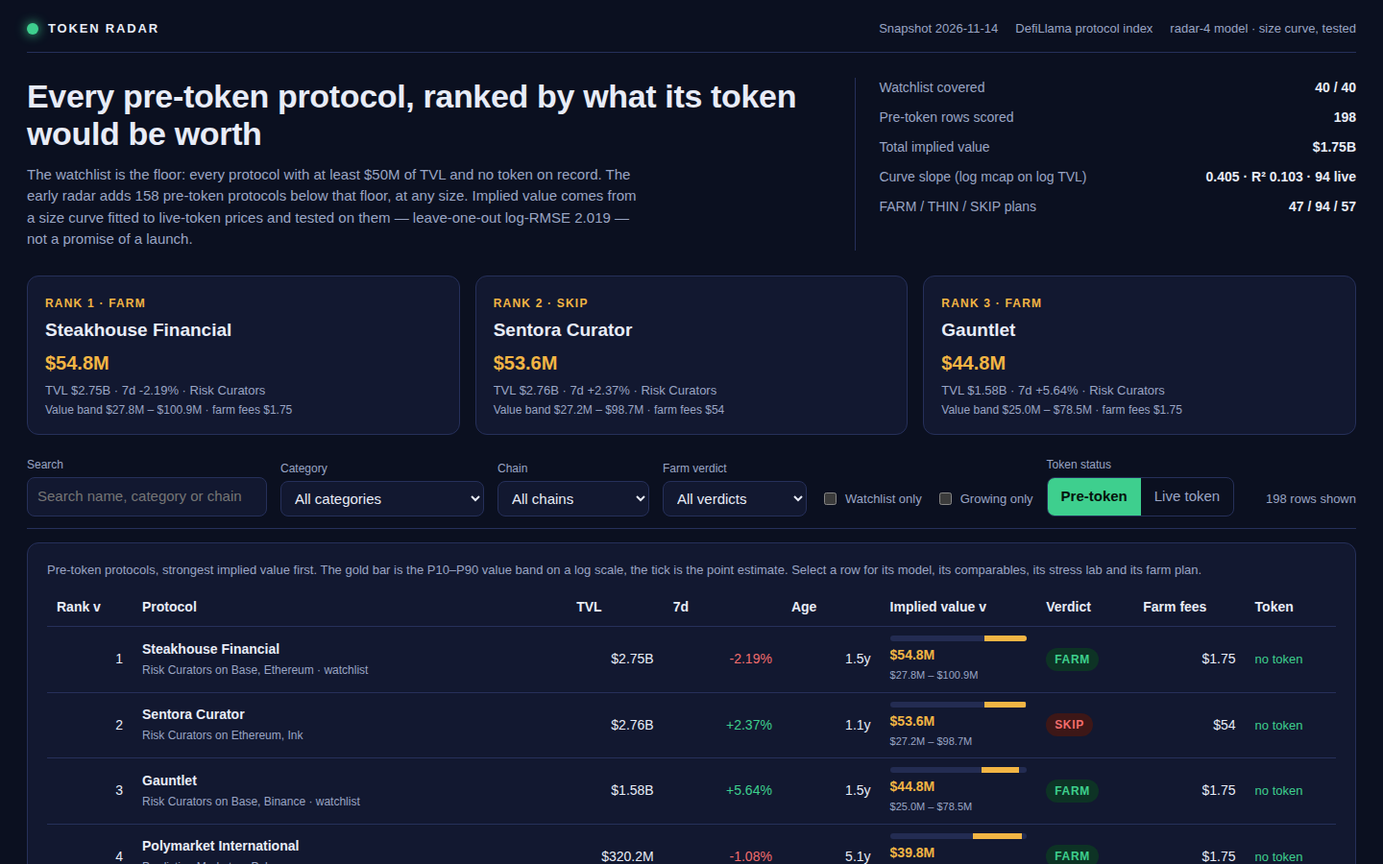
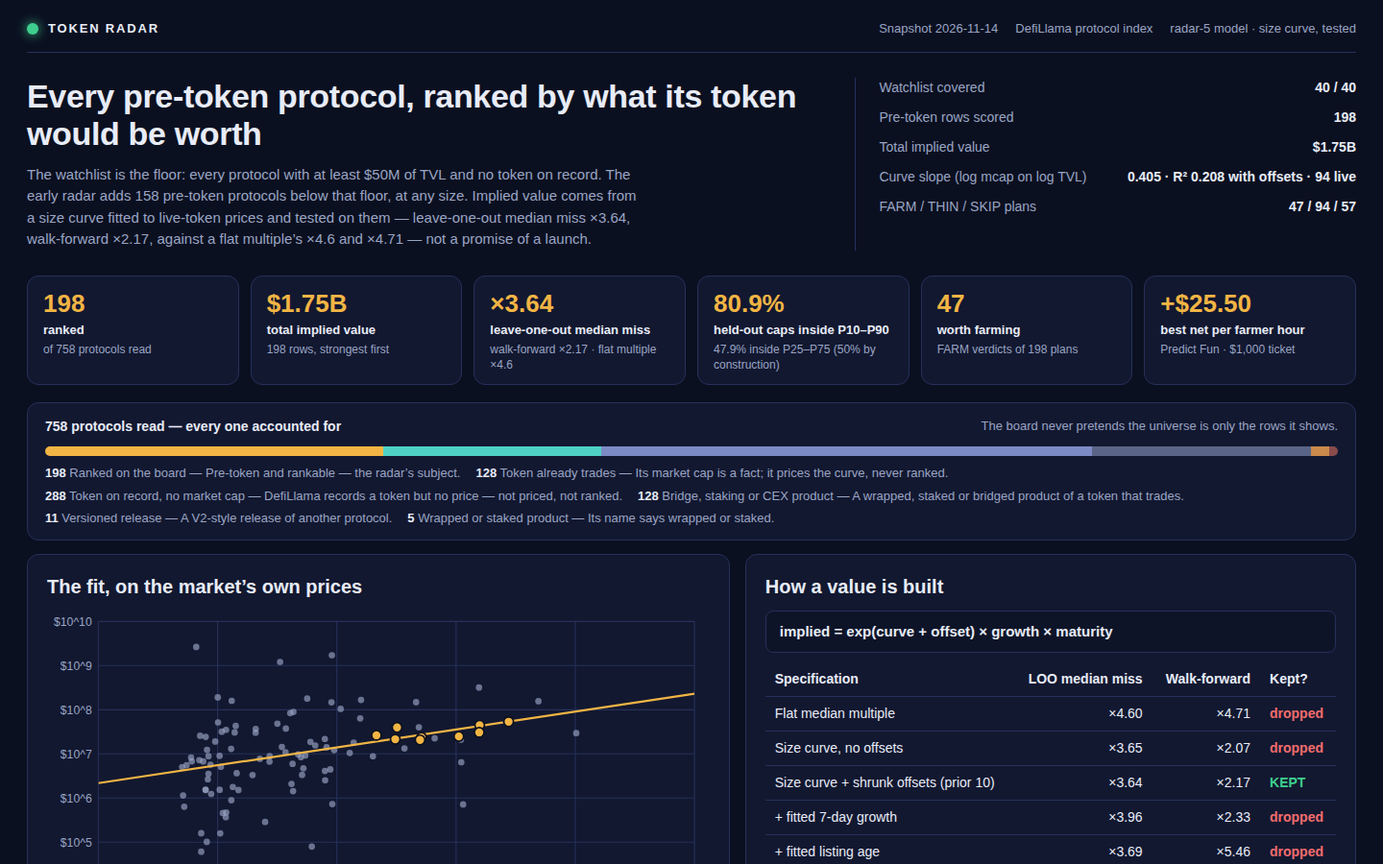
radar-5 dashboard: KPI strip, coverage ledger, scatter + ablation, farm economics
- Board view now opens with the proof, not the top-3 cards: a 6-tile
  KPI strip (198 ranked, $1.75B implied, LOO x3.64, 80.9% in P10-P90,
  47 FARM, best +$25.50/h), a coverage ledger for all 758 protocols
  with a stacked bar, and a proof grid — a log-log scatter of the 94
  live protocols, the fitted curve and the board top 10, beside the
  formula and the 5-row ablation table (age refused: WF x5.46).
- Table gains Slice / Net / Net-per-hour columns at a $1,000 ticket
  (toggle $1,000/$10,000), sortable; detail view gains a farm
  economics section. At the $1,000 ticket the page shows the stored
  values, so it agrees with board.json to the cent.
- Deep links: #sort=<key> and #scroll=table (filtered view link).
- Screenshots retaken at 1440x900 from the final build: board, detail
  (Steakhouse Financial), FARM-only sorted by net/hour.
- Board values unchanged vs radar-4: 198 rows, 0 diffs.

diff --git a/dashboard/app.js b/dashboard/app.js
@@ -1,4 +1,4 @@
-// Token Radar's night dashboard, radar-4. It reads window.RADAR (written beside dashboard/ by
+// Token Radar's night dashboard, radar-5. It reads window.RADAR (written beside dashboard/ by
 // main.ts) and renders the ranked board, a filterable table, a per-protocol detail drawer with the
 // curve's own inputs, the live comparables behind its value, the value band, the stress lab and
 // the protocol's costed farm plan. No network: every byte it shows is in data.js. The page
@@ -10,7 +10,7 @@
   var DATA = window.RADAR;
   if (!DATA) return;
   var app = document.getElementById('board');
-  var state = { q: '', category: 'all', chain: 'all', verdict: 'all', watch: false, growing: false, tab: 'pre-token', sort: 'implied', dir: -1, selected: null };
+  var state = { q: '', category: 'all', chain: 'all', verdict: 'all', watch: false, growing: false, tab: 'pre-token', sort: 'implied', dir: -1, selected: null, ticket: 1000, scroll: '' };
   var WATCH = {};
   (DATA.watchlist || []).forEach(function (s) { WATCH[s] = true; });
 
@@ -25,6 +25,25 @@
   function fmtPct(n) {
     if (n === null || n === undefined || !isFinite(n)) return 'n/a';
     return (n > 0 ? '+' : '') + n.toFixed(2) + '%';
+  }
+  /** Dollars with cents, for the farm economics where a slice can be $0.36. */
+  function fmtUsd2(n) {
+    if (n === null || n === undefined || !isFinite(n)) return 'n/a';
+    var sign = n < 0 ? '-' : '';
+    var a = Math.abs(n);
+    if (a >= 1e6) return sign + fmtUsd(a);
+    if (a >= 1e3) return sign + '$' + Math.round(a).toLocaleString('en-US');
+    return sign + '$' + a.toFixed(2);
+  }
+  /** One row's farm economics at the chosen ticket: the slice scales with the ticket, the fees do not.
+   *  At the $1,000 ticket the stored values are shown as computed, so the page and board.json agree
+   *  to the cent; at $10,000 the slice is rescaled and the net, break-even and net/hour follow. */
+  function econ(r) {
+    if (state.ticket === 1000) return { slice: r.slice_usd, net: r.net_usd, breakeven: r.breakeven_pct, netPerHour: r.net_per_hour_usd };
+    var slice = r.slice_usd * 10;
+    var net = slice - r.total_fees_usd;
+    var breakeven = slice > 0 ? (r.total_fees_usd / slice) * 100 : 0;
+    return { slice: slice, net: net, breakeven: breakeven, netPerHour: net / r.farmer_hours };
   }
   function fmtAge(days) {
     if (days === null || days === undefined) return 'unknown';
@@ -83,6 +102,8 @@
     if (params.get('watch') === '1') state.watch = true;
     if (params.get('growing') === '1') state.growing = true;
     if (params.get('tab')) state.tab = params.get('tab');
+    if (params.get('sort') && ['implied', 'name', 'tvl', 'growth', 'age', 'verdict', 'fees', 'slice', 'net', 'netperhour'].indexOf(params.get('sort')) >= 0) state.sort = params.get('sort');
+    if (params.get('scroll') === 'table') state.scroll = 'table';
   }
   function writeHash() {
     var params = new URLSearchParams();
@@ -123,6 +144,9 @@
       else if (key === 'age') { av = a.age_days === null ? Infinity : a.age_days; bv = b.age_days === null ? Infinity : b.age_days; }
       else if (key === 'verdict') { av = order[a.verdict]; bv = order[b.verdict]; }
       else if (key === 'fees') { av = a.total_fees_usd; bv = b.total_fees_usd; }
+      else if (key === 'slice') { av = econ(a).slice; bv = econ(b).slice; }
+      else if (key === 'net') { av = econ(a).net; bv = econ(b).net; }
+      else if (key === 'netperhour') { av = econ(a).netPerHour; bv = econ(b).netPerHour; }
       else { av = a.implied_value_usd; bv = b.implied_value_usd; }
       if (av < bv) return -state.dir;
       if (av > bv) return state.dir;
@@ -146,31 +170,118 @@
     return el('section', { class: 'lede' },
       el('div', null,
         el('h1', { text: 'Every pre-token protocol, ranked by what its token would be worth' }),
-        el('p', { text: 'The watchlist is the floor: every protocol with at least $' + Math.round(DATA.floor_usd / 1e6) + 'M of TVL and no token on record. The early radar adds ' + DATA.early_size + ' pre-token protocols below that floor, at any size. Implied value comes from a size curve fitted to live-token prices and tested on them — leave-one-out log-RMSE ' + v.leave_one_out.log_rmse + ' — not a promise of a launch.' })
+        el('p', { text: 'The watchlist is the floor: every protocol with at least $' + Math.round(DATA.floor_usd / 1e6) + 'M of TVL and no token on record. The early radar adds ' + DATA.early_size + ' pre-token protocols below that floor, at any size. Implied value comes from a size curve fitted to live-token prices and tested on them — leave-one-out median miss ×' + v.leave_one_out.med_mult + ', walk-forward ×' + v.walk_forward.med_mult + ', against a flat multiple’s ×' + v.baselines.flat_med_mult_loo + ' and ×' + v.baselines.flat_med_mult_wf + ' — not a promise of a launch.' })
       ),
       el('div', { class: 'facts' },
         el('div', { class: 'fact' }, el('span', { text: 'Watchlist covered' }), el('b', { text: DATA.watchlist_size + ' / ' + DATA.watchlist_size })),
         el('div', { class: 'fact' }, el('span', { text: 'Pre-token rows scored' }), el('b', { text: String(DATA.board_size) })),
         el('div', { class: 'fact' }, el('span', { text: 'Total implied value' }), el('b', { text: fmtUsd(DATA.total_implied_usd) })),
-        el('div', { class: 'fact' }, el('span', { text: 'Curve slope (log mcap on log TVL)' }), el('b', { text: DATA.curve.slope.toFixed(3) + ' · R² ' + DATA.curve.r_squared + ' · ' + DATA.curve.live_count + ' live' })),
+        el('div', { class: 'fact' }, el('span', { text: 'Curve slope (log mcap on log TVL)' }), el('b', { text: DATA.curve.slope.toFixed(3) + ' · R² ' + DATA.curve.r_squared_full + ' with offsets · ' + DATA.curve.live_count + ' live' })),
         el('div', { class: 'fact' }, el('span', { text: 'FARM / THIN / SKIP plans' }), el('b', { text: DATA.rows.filter(function (r) { return r.verdict === 'FARM'; }).length + ' / ' + DATA.rows.filter(function (r) { return r.verdict === 'THIN'; }).length + ' / ' + DATA.rows.filter(function (r) { return r.verdict === 'SKIP'; }).length }))
       )
     );
   }
 
-  function top3() {
-    var list = rows().slice(0, 3);
-    if (list.length === 0) return null;
-    var cards = list.map(function (r) {
-      return el('button', { class: 'top3-card', type: 'button', onclick: function () { openDetail(r.slug); } },
-        el('span', { class: 'rank', text: 'RANK ' + r.rank + ' · ' + r.verdict }),
-        el('h3', { text: r.name }),
-        el('span', { class: 'implied', text: fmtUsd(r.implied_value_usd) }),
-        el('span', { class: 'sub', text: 'TVL ' + fmtUsd(r.tvl_usd) + ' · 7d ' + fmtPct(r.change_7d) + ' · ' + (r.category || 'Other') }),
-        el('span', { class: 'band', text: 'Value band ' + fmtUsd(r.p10_usd) + ' – ' + fmtUsd(r.p90_usd) + ' · farm fees ' + fmtFee(r.total_fees_usd) })
+  function kpiStrip() {
+    var v = DATA.validation;
+    var tiles = [
+      { big: String(DATA.board_size), lbl: 'ranked', sub: 'of ' + DATA.ledger.total + ' protocols read' },
+      { big: fmtUsd(DATA.total_implied_usd), lbl: 'total implied value', sub: DATA.board_size + ' rows, strongest first' },
+      { big: '×' + v.leave_one_out.med_mult, lbl: 'leave-one-out median miss', sub: 'walk-forward ×' + v.walk_forward.med_mult + ' · flat multiple ×' + v.baselines.flat_med_mult_loo },
+      { big: v.range_hold_p90_pct + '%', lbl: 'held-out caps inside P10–P90', sub: v.range_hold_p50_pct + '% inside P25–P75 (50% by construction)' },
+      { big: String(DATA.farm_count), lbl: 'worth farming', sub: 'FARM verdicts of ' + DATA.board_size + ' plans' },
+      { big: '+$' + DATA.best_net_per_hour_usd.toFixed(2), lbl: 'best net per farmer hour', sub: DATA.best_net_per_hour_name + ' · $1,000 ticket' },
+    ];
+    return el('section', { class: 'kpi' }, tiles.map(function (t) {
+      return el('div', { class: 'kpi-tile' },
+        el('div', { class: 'big', text: t.big }),
+        el('div', { class: 'lbl', text: t.lbl }),
+        el('div', { class: 'sub', text: t.sub }));
+    }));
+  }
+
+  function ledgerStrip() {
+    var colors = { ranked: '#f2b544', trades: '#4fd1c5', record: '#7c8bc4', excluded: '#5a6486', versioned: '#c98a4b', wrapped: '#8a4b4b' };
+    var total = DATA.ledger.total;
+    var bar = el('div', { class: 'ledger-bar', 'aria-hidden': 'true' },
+      DATA.ledger.groups.map(function (g) {
+        return el('i', { style: 'width:' + (g.count / total * 100).toFixed(2) + '%;background:' + (colors[g.key] || '#5a6486'), title: g.label + ': ' + g.count });
+      }));
+    var groups = el('div', { class: 'ledger-groups' },
+      DATA.ledger.groups.map(function (g) {
+        return el('span', null, el('b', { text: String(g.count) }), ' ' + g.label + ' — ' + g.reason);
+      }));
+    return el('section', { class: 'ledger' },
+      el('div', { class: 'ledger-head' },
+        el('b', { text: total + ' protocols read — every one accounted for' }),
+        el('span', { text: 'The board never pretends the universe is only the rows it shows.' })),
+      bar, groups);
+  }
+
+  /** The fit as a picture: live-token market cap against TVL on log scales, the fitted curve, and the board's top 10 implied values. */
+  function scatterSvg() {
+    var W = 620, H = 290, padL = 48, padR = 14, padT = 12, padB = 30;
+    var live = DATA.live.filter(function (r) { return r.tvl_usd > 0 && r.mcap_usd > 0; });
+    var top = DATA.rows.slice(0, 10);
+    var xs = live.map(function (r) { return Math.log10(r.tvl_usd); }).concat(top.map(function (r) { return Math.log10(r.tvl_usd); }));
+    var ys = live.map(function (r) { return Math.log10(r.mcap_usd); }).concat(top.map(function (r) { return Math.log10(r.implied_value_usd); }));
+    var x0 = Math.floor(Math.min.apply(null, xs)), x1 = Math.ceil(Math.max.apply(null, xs));
+    var y0 = Math.floor(Math.min.apply(null, ys)), y1 = Math.ceil(Math.max.apply(null, ys));
+    function X(v) { return padL + ((v - x0) / (x1 - x0)) * (W - padL - padR); }
+    function Y(v) { return padT + (1 - (v - y0) / (y1 - y0)) * (H - padT - padB); }
+    var c0 = DATA.curve.intercept / Math.LN10, s = DATA.curve.slope;
+    var parts = [];
+    parts.push('<svg class="scatter" viewBox="0 0 ' + W + ' ' + H + '" role="img" aria-label="Scatter plot of live-token market cap against TVL on log scales, with the fitted curve and the board top 10">');
+    parts.push('<defs><clipPath id="plot"><rect x="' + padL + '" y="' + padT + '" width="' + (W - padL - padR) + '" height="' + (H - padT - padB) + '"/></clipPath></defs>');
+    for (var gx = x0; gx <= x1; gx++) {
+      parts.push('<line x1="' + X(gx).toFixed(1) + '" y1="' + padT + '" x2="' + X(gx).toFixed(1) + '" y2="' + (H - padB) + '" stroke="#26305a" stroke-width="1"/>');
+      parts.push('<text x="' + X(gx).toFixed(1) + '" y="' + (H - padB + 16) + '" fill="#9aa5c4" font-size="11" text-anchor="middle">$10^' + gx + '</text>');
+    }
+    for (var gy = y0; gy <= y1; gy++) {
+      parts.push('<line x1="' + padL + '" y1="' + Y(gy).toFixed(1) + '" x2="' + (W - padR) + '" y2="' + Y(gy).toFixed(1) + '" stroke="#26305a" stroke-width="1"/>');
+      parts.push('<text x="' + (padL - 6) + '" y="' + (Y(gy) + 4).toFixed(1) + '" fill="#9aa5c4" font-size="11" text-anchor="end">$10^' + gy + '</text>');
+    }
+    parts.push('<g clip-path="url(#plot)">');
+    live.forEach(function (r) {
+      parts.push('<circle cx="' + X(Math.log10(r.tvl_usd)).toFixed(1) + '" cy="' + Y(Math.log10(r.mcap_usd)).toFixed(1) + '" r="3" fill="#9aa5c4" opacity="0.65"/>');
+    });
+    parts.push('<line x1="' + X(x0).toFixed(1) + '" y1="' + Y(c0 + s * x0).toFixed(1) + '" x2="' + X(x1).toFixed(1) + '" y2="' + Y(c0 + s * x1).toFixed(1) + '" stroke="#f2b544" stroke-width="2"/>');
+    top.forEach(function (r) {
+      parts.push('<circle cx="' + X(Math.log10(r.tvl_usd)).toFixed(1) + '" cy="' + Y(Math.log10(r.implied_value_usd)).toFixed(1) + '" r="4.5" fill="#f2b544" stroke="#0b1020" stroke-width="1.5"/>');
+    });
+    parts.push('</g>');
+    parts.push('<text x="' + padL + '" y="' + (H - 8) + '" fill="#9aa5c4" font-size="11">TVL (log scale) →</text>');
+    parts.push('</svg>');
+    return parts.join('');
+  }
+
+  function proofGrid() {
+    var v = DATA.validation;
+    var ageRow = DATA.ablation.filter(function (a) { return a.name.indexOf('age') >= 0; })[0];
+    var ablRows = DATA.ablation.map(function (a) {
+      return el('tr', null,
+        el('td', { text: a.name }),
+        el('td', { class: 'num', text: '×' + a.loo_med.toFixed(2) }),
+        el('td', { class: 'num', text: '×' + a.wf_med.toFixed(2) }),
+        el('td', { class: a.kept ? 'kept' : 'dropped', text: a.kept ? 'KEPT' : 'dropped' })
       );
     });
-    return el('section', { class: 'top3' }, cards);
+    return el('section', { class: 'proof' },
+      el('div', { class: 'panel' },
+        el('h2', { text: 'The fit, on the market’s own prices' }),
+        el('div', { html: scatterSvg() }),
+        el('p', { class: 'scatter-note', text: DATA.curve.live_count + ' live-token protocols (grey), the fitted curve log(mcap) = ' + DATA.curve.intercept.toFixed(3) + ' + ' + DATA.curve.slope.toFixed(3) + ' × log(TVL) (gold), the board’s top 10 implied values (gold dots). R² ' + DATA.curve.r_squared_full + ' with the shrunk category offsets, ' + DATA.curve.r_squared + ' for the curve alone.' })
+      ),
+      el('div', { class: 'panel' },
+        el('h2', { text: 'How a value is built' }),
+        el('div', { class: 'formula' }, el('b', { text: 'implied = exp(curve + offset) × growth × maturity' })),
+        el('table', { class: 'calib ablation' },
+          el('thead', null, el('tr', null, el('th', { text: 'Specification' }), el('th', { class: 'num', text: 'LOO median miss' }), el('th', { class: 'num', text: 'Walk-forward' }), el('th', { text: 'Kept?' }))),
+          el('tbody', null, ablRows)
+        ),
+        el('p', { class: 'sub', text: 'Each row was scored blind on the same ' + v.leave_one_out.n + ' live protocols. The curve beats the flat multiple on both tests. A fitted age term wins in-sample and collapses on listings the model never saw (×' + (ageRow ? ageRow.wf_med.toFixed(2) : '5.46') + '), so the model refuses it; growth stays a small stated prior, not a fitted term. Offsets move the blind scores by less than the noise and are kept for the category story, not for a win they do not earn.' })
+      )
+    );
   }
 
   function controls() {
@@ -190,6 +301,8 @@
     growBox.addEventListener('change', function () { state.growing = growBox.checked; writeHash(); render(); });
     var pre = el('button', { type: 'button', 'aria-pressed': state.tab === 'pre-token' ? 'true' : 'false', text: 'Pre-token', onclick: function () { state.tab = 'pre-token'; writeHash(); render(); } });
     var live = el('button', { type: 'button', 'aria-pressed': state.tab === 'live' ? 'true' : 'false', text: 'Live token', onclick: function () { state.tab = 'live'; writeHash(); render(); } });
+    var t1000 = el('button', { type: 'button', 'aria-pressed': state.ticket === 1000 ? 'true' : 'false', text: '$1,000', onclick: function () { state.ticket = 1000; render(); } });
+    var t10000 = el('button', { type: 'button', 'aria-pressed': state.ticket === 10000 ? 'true' : 'false', text: '$10,000', onclick: function () { state.ticket = 10000; render(); } });
     return el('div', { class: 'controls' },
       el('div', { class: 'field' }, el('label', { for: 'q', text: 'Search' }), search),
       select('category', 'Category', categories, state.category, 'All categories'),
@@ -198,6 +311,7 @@
       el('label', { class: 'check', for: 'watch' }, watchBox, 'Watchlist only'),
       el('label', { class: 'check', for: 'growing' }, growBox, 'Growing only'),
       el('div', { class: 'field' }, el('span', { class: 'sub', text: 'Token status' }), el('div', { class: 'tabs' }, pre, live)),
+      el('div', { class: 'field' }, el('span', { class: 'sub', text: 'Deposit ticket' }), el('div', { class: 'ticket' }, t1000, t10000)),
       el('span', { class: 'count', text: state.tab === 'pre-token' ? rows().length + ' rows shown' : DATA.live.length + ' live-token protocols in the fit' })
     );
   }
@@ -224,6 +338,7 @@
     list.forEach(function (r) {
       var growth = r.change_7d === null ? 'n/a' : fmtPct(r.change_7d);
       var growthClass = r.change_7d === null ? '' : r.change_7d >= 0 ? 'pos' : 'neg';
+      var e = econ(r);
       var tr = el('tr', {
         'data-selected': state.selected === r.slug ? 'true' : 'false',
         tabindex: '0',
@@ -237,14 +352,15 @@
         )),
         el('td', { class: 'num', text: fmtUsd(r.tvl_usd) }),
         el('td', { class: 'num ' + growthClass, text: growth }),
-        el('td', { class: 'num', text: fmtAge(r.age_days) }),
         el('td', null, el('div', { class: 'implied' },
           bandBar(r),
           el('span', { class: 'num', text: fmtUsd(r.implied_value_usd) }),
           el('span', { class: 'range', text: fmtUsd(r.p10_usd) + ' – ' + fmtUsd(r.p90_usd) })
         )),
+        el('td', { class: 'num fees', text: fmtUsd2(e.slice) }),
+        el('td', { class: 'num fees ' + (e.net >= 0 ? 'econ-pos' : 'econ-neg'), text: fmtUsd2(e.net) }),
+        el('td', { class: 'num fees ' + (e.netPerHour >= 0 ? 'econ-pos' : 'econ-neg'), text: fmtUsd2(e.netPerHour) + '/h' }),
         el('td', null, el('span', { class: 'verdict ' + r.verdict, text: r.verdict })),
-        el('td', { class: 'num fees', text: fmtFee(r.total_fees_usd) }),
         el('td', null, el('span', { class: 'status', text: 'no token' }))
       );
       tbody.appendChild(tr);
@@ -252,16 +368,17 @@
     return el('div', { class: 'panel' },
       el('div', { class: 'table-wrap' },
         el('table', null,
-          el('caption', { class: 'sub', text: 'Pre-token protocols, strongest implied value first. The gold bar is the P10–P90 value band on a log scale, the tick is the point estimate. Select a row for its model, its comparables, its stress lab and its farm plan.' }),
+          el('caption', { class: 'sub', text: 'Pre-token protocols, strongest implied value first. The gold bar is the P10–P90 value band on a log scale, the tick is the point estimate. Slice is the plan’s share of the airdrop at a $' + state.ticket.toLocaleString('en-US') + ' ticket — ' + Math.round(DATA.drop_share * 100) + '% of the implied value times the ticket’s share of TVL — net is the slice minus the farm fees, net/hour divides the net by the farmer’s own hours. Select a row for its model, its comparables, its stress lab and its farm plan.' }),
           el('thead', null, el('tr', null,
             sortHeader('implied', 'Rank'),
             sortHeader('name', 'Protocol'),
             sortHeader('tvl', 'TVL'),
             sortHeader('growth', '7d'),
-            sortHeader('age', 'Age'),
             sortHeader('implied', 'Implied value'),
+            sortHeader('slice', 'Slice @ $' + state.ticket.toLocaleString('en-US')),
+            sortHeader('net', 'Net'),
+            sortHeader('netperhour', 'Net / hour'),
             sortHeader('verdict', 'Verdict'),
-            sortHeader('fees', 'Farm fees'),
             el('th', { scope: 'col', text: 'Token' })
           )),
           tbody
@@ -335,12 +452,13 @@
       el('table', { class: 'calib' },
         el('thead', null, el('tr', null, el('th', { text: 'Test' }), el('th', { class: 'num', text: 'Log-RMSE' }), el('th', { text: 'Note' }))),
         el('tbody', null,
-          el('tr', null, el('td', { text: 'Size curve, leave-one-out' }), el('td', { class: 'num', text: v.leave_one_out.log_rmse.toFixed(3) }), el('td', { text: v.leave_one_out.n + ' protocols · ' + v.leave_one_out.within_2x_pct + '% predicted within 2x' })),
-          el('tr', null, el('td', { text: 'Overall-median multiple, leave-one-out' }), el('td', { class: 'num', text: b.overall_median_loo.toFixed(3) }), el('td', { text: 'Naive baseline' })),
+          el('tr', null, el('td', { text: 'Size curve, leave-one-out' }), el('td', { class: 'num', text: v.leave_one_out.log_rmse.toFixed(3) }), el('td', { text: v.leave_one_out.n + ' protocols · median miss ×' + v.leave_one_out.med_mult + ' · ' + v.leave_one_out.within_2x_pct + '% within 2x, ' + v.leave_one_out.within_3x_pct + '% within 3x' })),
+          el('tr', null, el('td', { text: 'Overall-median multiple, leave-one-out' }), el('td', { class: 'num', text: b.overall_median_loo.toFixed(3) }), el('td', { text: 'Naive baseline · median miss ×' + b.flat_med_mult_loo })),
           el('tr', null, el('td', { text: 'Category-median multiple, leave-one-out' }), el('td', { class: 'num', text: b.category_median_loo.toFixed(3) }), el('td', { text: 'Naive baseline, per category' })),
-          el('tr', null, el('td', { text: 'Size curve, walk-forward' }), el('td', { class: 'num', text: v.walk_forward.log_rmse.toFixed(3) }), el('td', { text: 'Trained on ' + v.walk_forward.train_n + ', tested on ' + v.walk_forward.test_n + ' later listings' })),
-          el('tr', null, el('td', { text: 'Overall-median multiple, walk-forward' }), el('td', { class: 'num', text: b.overall_median_wf.toFixed(3) }), el('td', { text: 'Same split' })),
-          el('tr', null, el('td', { text: 'Category-median multiple, walk-forward' }), el('td', { class: 'num', text: b.category_median_wf.toFixed(3) }), el('td', { text: 'Same split, ' + b.category_median_wf_n + ' of the test set in a seen category — a small, easy subset' }))
+          el('tr', null, el('td', { text: 'Size curve, walk-forward' }), el('td', { class: 'num', text: v.walk_forward.log_rmse.toFixed(3) }), el('td', { text: 'Trained on ' + v.walk_forward.train_n + ', tested on ' + v.walk_forward.test_n + ' later listings · median miss ×' + v.walk_forward.med_mult + ' · ' + v.walk_forward.within_2x_pct + '% within 2x' })),
+          el('tr', null, el('td', { text: 'Overall-median multiple, walk-forward' }), el('td', { class: 'num', text: b.overall_median_wf.toFixed(3) }), el('td', { text: 'Same split · median miss ×' + b.flat_med_mult_wf })),
+          el('tr', null, el('td', { text: 'Category-median multiple, walk-forward' }), el('td', { class: 'num', text: b.category_median_wf.toFixed(3) }), el('td', { text: 'Same split, ' + b.category_median_wf_n + ' of the test set in a seen category — a small, easy subset' })),
+          el('tr', null, el('td', { text: 'Value bands, held out' }), el('td', { class: 'num', text: v.range_hold_p90_pct + '% in P10–P90' }), el('td', { text: v.range_hold_p50_pct + '% of held-out market caps fell inside their leave-one-out P25–P75 band (50% by construction), ' + v.range_hold_p90_pct + '% inside P10–P90 (80% by construction) — the bands hold almost exactly as printed.' }))
         )
       ),
       el('p', { class: 'sub', text: 'Signal tests on ' + v.signals.n + ' live protocols with a listing date: seven-day growth correlates ' + v.signals.growth_corr + ' with the multiple, and age ' + v.signals.age_corr + ' — neither predicts it, so both stay small priors and the curve does the work. Value bands come from ' + v.bootstrap.refits + ' bootstrap refits of the curve and offsets (seeded, deterministic): P10 and P90 are the band, and the band is widest where a category has the fewest live protocols. The early radar is every rankable pre-token protocol below the watchlist floor, at any size, and the live-token protocols are set aside with their market caps shown.' })
@@ -408,6 +526,18 @@
       el('p', { class: 'sub', text: 'Model ' + DATA.model_version + ': the same curve scores every protocol, and the band is 200 bootstrap refits of it. This is an estimate, not a price.' })
     ));
     dialog.appendChild(el('section', { class: 'detail-section' },
+      el('h3', { text: 'Farm economics · $' + state.ticket.toLocaleString('en-US') + ' ticket' }),
+      el('div', { class: 'kv' },
+        el('div', null, el('span', { text: 'Airdrop slice (' + Math.round(DATA.drop_share * 100) + '% of implied × ticket/TVL)' }), el('b', { class: 'num', text: fmtUsd2(econ(row).slice) })),
+        el('div', null, el('span', { text: 'Farm fees over the hold' }), el('b', { class: 'num', text: fmtFee(row.total_fees_usd) })),
+        el('div', null, el('span', { text: 'Net (slice minus fees)' }), el('b', { class: 'num ' + (econ(row).net >= 0 ? 'econ-pos' : 'econ-neg'), text: fmtUsd2(econ(row).net) })),
+        el('div', null, el('span', { text: 'Break-even (fees as a share of the slice)' }), el('b', { class: 'num', text: econ(row).breakeven.toFixed(1) + '%' })),
+        el('div', null, el('span', { text: 'Farmer’s hours' }), el('b', { class: 'num', text: row.farmer_hours.toFixed(2) + ' h' })),
+        el('div', null, el('span', { text: 'Net per farmer hour' }), el('b', { class: 'num ' + (econ(row).netPerHour >= 0 ? 'econ-pos' : 'econ-neg'), text: fmtUsd2(econ(row).netPerHour) + '/h' }))
+      ),
+      el('p', { class: 'sub', text: 'The slice assumes ' + Math.round(DATA.drop_share * 100) + '% of the implied value goes to depositors and the ticket is the only deposit. At a $' + state.ticket.toLocaleString('en-US') + ' ticket the slice scales with the ticket and the fees do not — switch the ticket above the board to see it. A negative net means the fees alone eat the whole share.' })
+    ));
+    dialog.appendChild(el('section', { class: 'detail-section' },
       el('h3', { text: 'Stress lab' }),
       el('div', { class: 'kv' },
         el('div', null, el('span', { text: 'Bear case (P10)' }), el('b', { class: 'num', text: fmtUsd(row.stress.bear_usd) })),
@@ -445,8 +575,9 @@
     shell.appendChild(header());
     shell.appendChild(lede());
     if (state.tab === 'pre-token') {
-      var t = top3();
-      if (t) shell.appendChild(t);
+      shell.appendChild(kpiStrip());
+      shell.appendChild(ledgerStrip());
+      shell.appendChild(proofGrid());
     }
     shell.appendChild(controls());
     shell.appendChild(state.tab === 'pre-token' ? boardTable() : liveTable());
@@ -458,6 +589,11 @@
     app.setAttribute('aria-busy', 'false');
     if (!dialog.isConnected) app.appendChild(dialog);
     if (state.selected) openDetail(state.selected);
+    if (state.scroll === 'table') {
+      state.scroll = '';
+      var tw = document.querySelector('.table-wrap');
+      if (tw) tw.scrollIntoView();
+    }
   }
 
   readHash();

diff --git a/dashboard/app.css b/dashboard/app.css
@@ -17,6 +17,32 @@ a { color: var(--teal); }
 .fact span { color: var(--muted); }
 .fact b { font-variant-numeric: tabular-nums; white-space: nowrap; }
 .top3 { display: grid; grid-template-columns: repeat(3, 1fr); gap: 16px; padding: 18px 0 6px; }
+.kpi { display: grid; grid-template-columns: repeat(6, 1fr); gap: 12px; padding: 18px 0 4px; }
+.kpi-tile { background: var(--panel); border: 1px solid var(--line); border-radius: 12px; padding: 14px 16px 12px; }
+.kpi-tile .big { font-size: 26px; font-weight: 700; color: var(--gold); font-variant-numeric: tabular-nums; line-height: 1.1; }
+.kpi-tile .lbl { font-size: 13px; font-weight: 700; margin-top: 4px; }
+.kpi-tile .sub { font-size: 12px; color: var(--muted); margin-top: 2px; line-height: 1.35; }
+.ledger { background: var(--panel); border: 1px solid var(--line); border-radius: 12px; padding: 14px 18px 12px; margin-top: 14px; }
+.ledger .ledger-head { display: flex; justify-content: space-between; gap: 12px; flex-wrap: wrap; font-size: 14px; }
+.ledger .ledger-head b { font-weight: 700; }
+.ledger .ledger-head span { color: var(--muted); font-size: 13px; }
+.ledger-bar { display: flex; height: 10px; border-radius: 5px; overflow: hidden; margin: 10px 0 8px; background: #232c52; }
+.ledger-bar i { display: block; height: 100%; }
+.ledger-groups { display: flex; flex-wrap: wrap; gap: 4px 16px; font-size: 13px; color: var(--muted); }
+.ledger-groups b { color: var(--text); font-variant-numeric: tabular-nums; }
+.proof { display: grid; grid-template-columns: 1.15fr 1fr; gap: 16px; margin-top: 14px; }
+.proof .panel { margin-top: 0; }
+.scatter { width: 100%; height: auto; display: block; margin-top: 6px; }
+.scatter-note { font-size: 12px; color: var(--muted); margin: 6px 0 0; }
+.ablation td, .ablation th { padding: 7px 10px; }
+.ablation .kept { color: var(--green); font-weight: 700; }
+.ablation .dropped { color: var(--red); font-weight: 700; }
+.ablation .abl-note { font-size: 12px; color: var(--muted); }
+.ticket { display: flex; border: 1px solid var(--line); border-radius: 8px; overflow: hidden; }
+.ticket button { background: transparent; border: 0; color: var(--muted); padding: 8px 14px; font: inherit; cursor: pointer; }
+.ticket button[aria-pressed="true"] { background: var(--gold); color: #111; font-weight: 700; }
+.econ-neg { color: var(--red); }
+.econ-pos { color: var(--green); }
 .top3-card { text-align: left; background: var(--panel); border: 1px solid var(--line); border-radius: 12px; padding: 16px 18px; color: var(--text); cursor: pointer; font: inherit; }
 .top3-card:hover { border-color: var(--gold); }
 .top3-card .rank { color: var(--gold); font-size: 12px; letter-spacing: .1em; font-weight: 700; }
@@ -83,4 +109,4 @@ h3 { font-size: 16px; margin: 18px 0 8px; }
 .kv div { display: flex; justify-content: space-between; gap: 12px; border-bottom: 1px dashed var(--line); padding: 5px 0; }
 .kv .gold { color: var(--gold); font-weight: 700; }
 .note { color: var(--muted); font-size: 13px; }
-@media (max-width: 900px) { .lede { grid-template-columns: 1fr; } .facts { border-left: 0; padding-left: 0; } .top3 { grid-template-columns: 1fr; } .equation, .kv { grid-template-columns: 1fr; } }
+@media (max-width: 900px) { .lede { grid-template-columns: 1fr; } .facts { border-left: 0; padding-left: 0; } .top3 { grid-template-columns: 1fr; } .equation, .kv { grid-template-columns: 1fr; } .kpi { grid-template-columns: repeat(2, 1fr); } .proof { grid-template-columns: 1fr; } }
